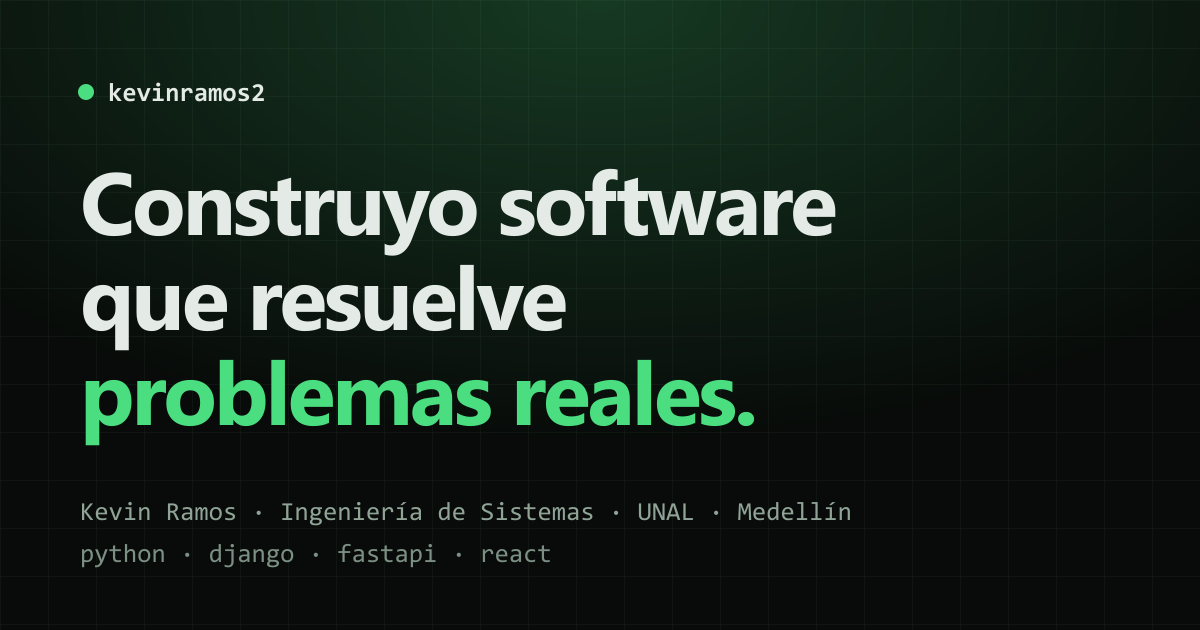
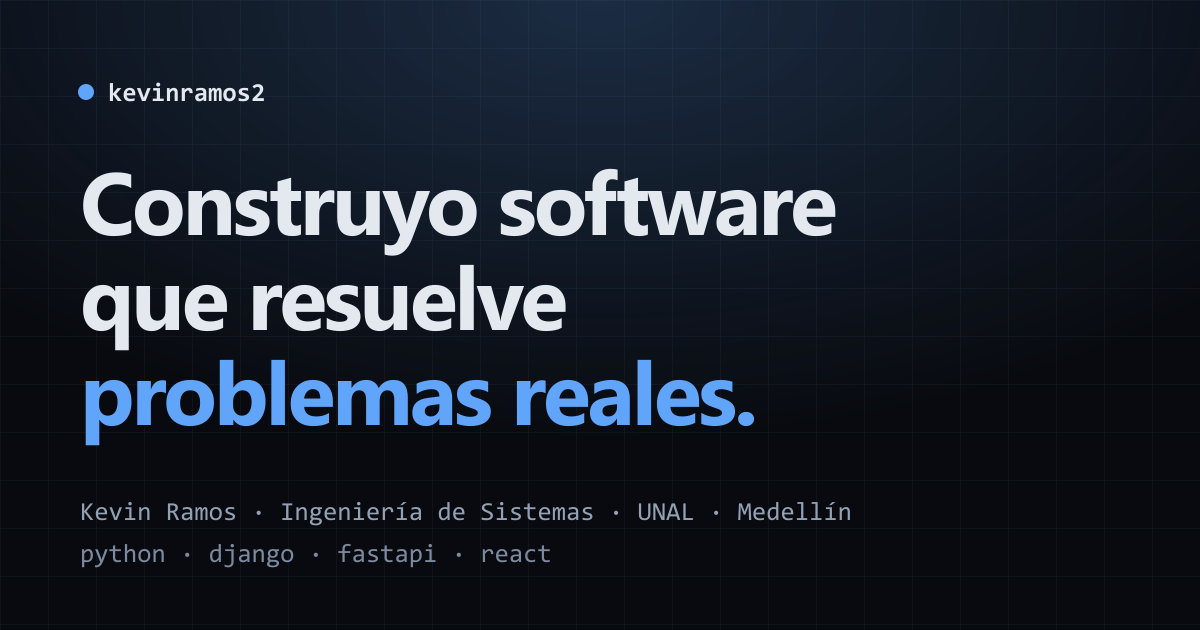
Cambiar el acento de verde a azul
Acento #60A5FA con neutros de matiz azulado en fondos, bordes y grises.
Favicon e imagen Open Graph regenerados con la nueva paleta.

diff --git a/src/styles/global.css b/src/styles/global.css
@@ -6,22 +6,24 @@
 }
 
 @theme {
-  --color-bg: #080b09;
-  --color-bg-elevated: #0d1210;
-  --color-surface: #111714;
-  --color-surface-hover: #151e1a;
-  --color-border: #1e2a24;
-  --color-border-strong: #2c3d35;
-  --color-text: #e4ebe7;
-  --color-muted: #8fa396;
-  /* El plan pedía #5D6F65, que no llega a AA sobre --surface; este sí (5.3:1). */
-  --color-faint: #7c8f84;
-  --color-accent: #4ade80;
-  --color-accent-hover: #22c55e;
-  --color-accent-dim: #14532d;
-  --color-accent-glow: rgb(74 222 128 / 0.12);
+  --color-bg: #080a0f;
+  --color-bg-elevated: #0c1017;
+  --color-surface: #10151d;
+  --color-surface-hover: #151c27;
+  --color-border: #1e2735;
+  --color-border-strong: #2d3b50;
+  --color-text: #e4e9f0;
+  --color-muted: #93a1b5;
+  /* Llega a AA sobre --surface (5.2:1). */
+  --color-faint: #7b8aa0;
+  --color-accent: #60a5fa;
+  --color-accent-hover: #3b82f6;
+  --color-accent-dim: #1e3a8a;
+  --color-accent-glow: rgb(96 165 250 / 0.14);
   /* Solo decorativo: cursor y prompt. Nunca para texto. */
-  --color-terminal: #00ff41;
+  /* Texto sobre el acento (botón primario). */
+  --color-on-accent: #06142b;
+  --color-terminal: #3d9bff;
 
   --radius-card: 16px;
   --radius-control: 8px;
@@ -137,7 +139,7 @@
 
   .btn-primary {
     background: var(--color-accent);
-    color: #052e16;
+    color: var(--color-on-accent);
   }
 
   .btn-primary:hover {
@@ -175,8 +177,8 @@
     z-index: -1;
     pointer-events: none;
     background-image:
-      linear-gradient(to right, rgb(30 42 36 / 0.4) 1px, transparent 1px),
-      linear-gradient(to bottom, rgb(30 42 36 / 0.4) 1px, transparent 1px);
+      linear-gradient(to right, rgb(30 39 53 / 0.4) 1px, transparent 1px),
+      linear-gradient(to bottom, rgb(30 39 53 / 0.4) 1px, transparent 1px);
     background-size: 48px 48px;
     mask-image: radial-gradient(ellipse 80% 70% at 50% 30%, #000 30%, transparent 100%);
   }
